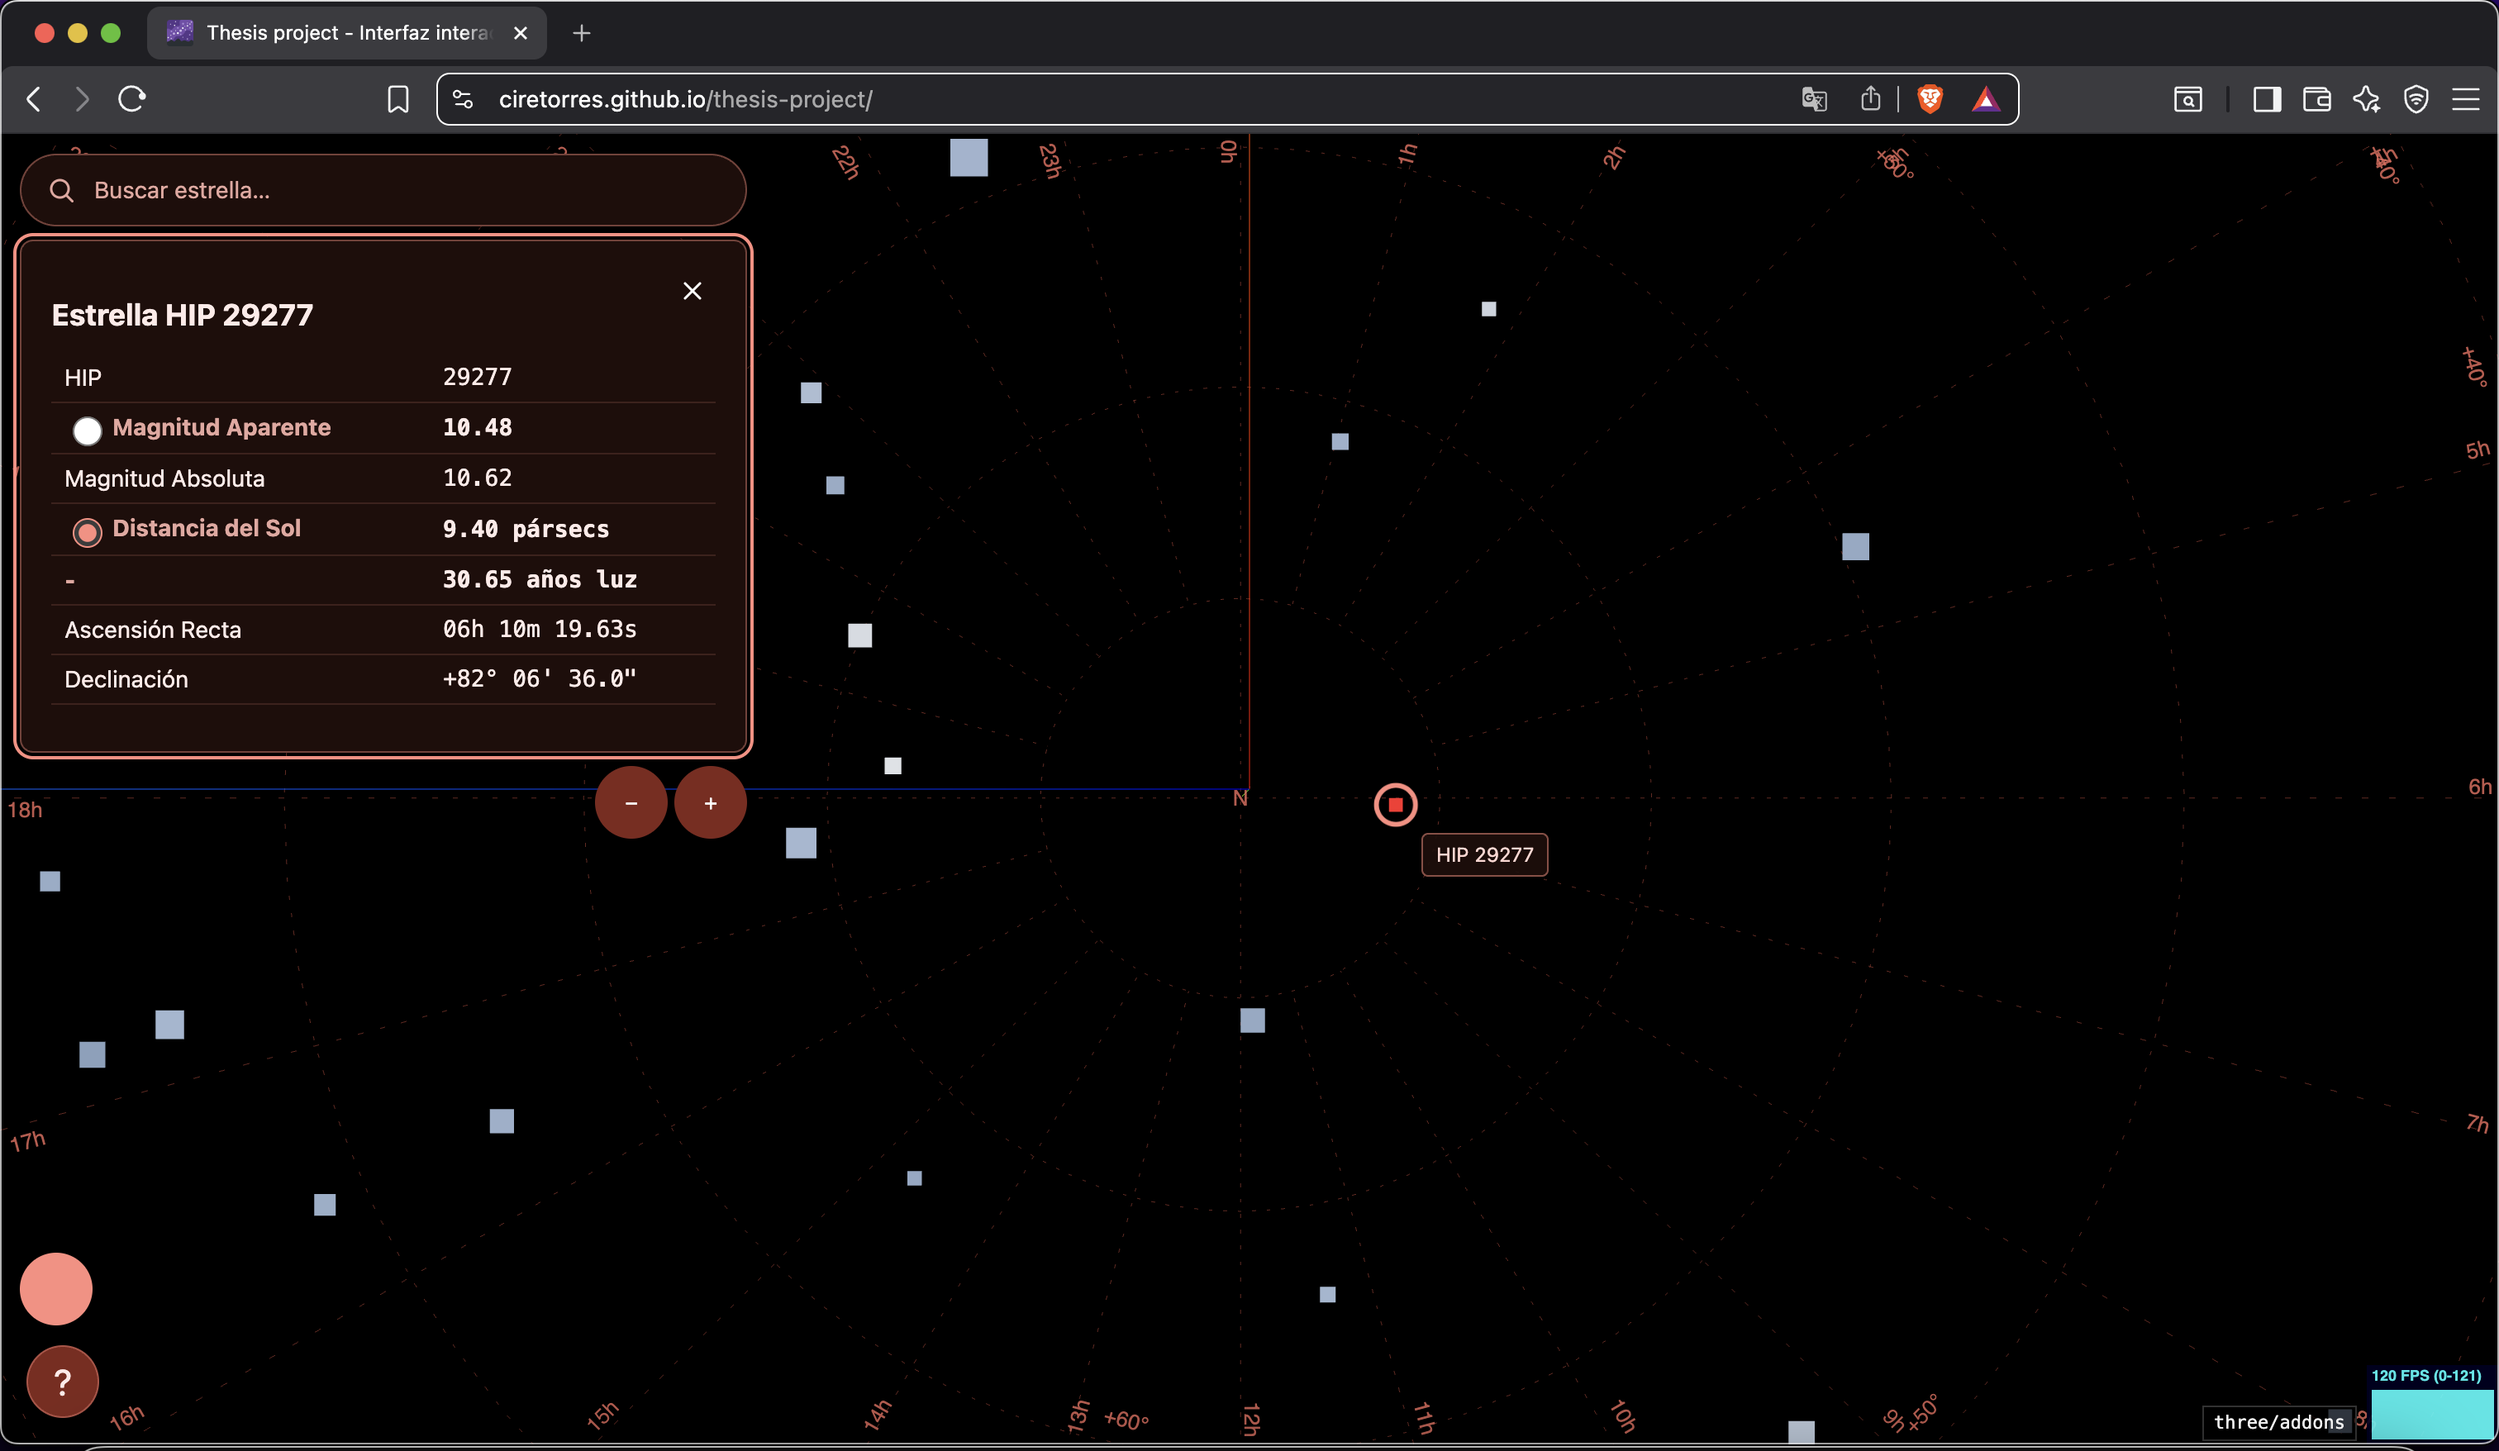
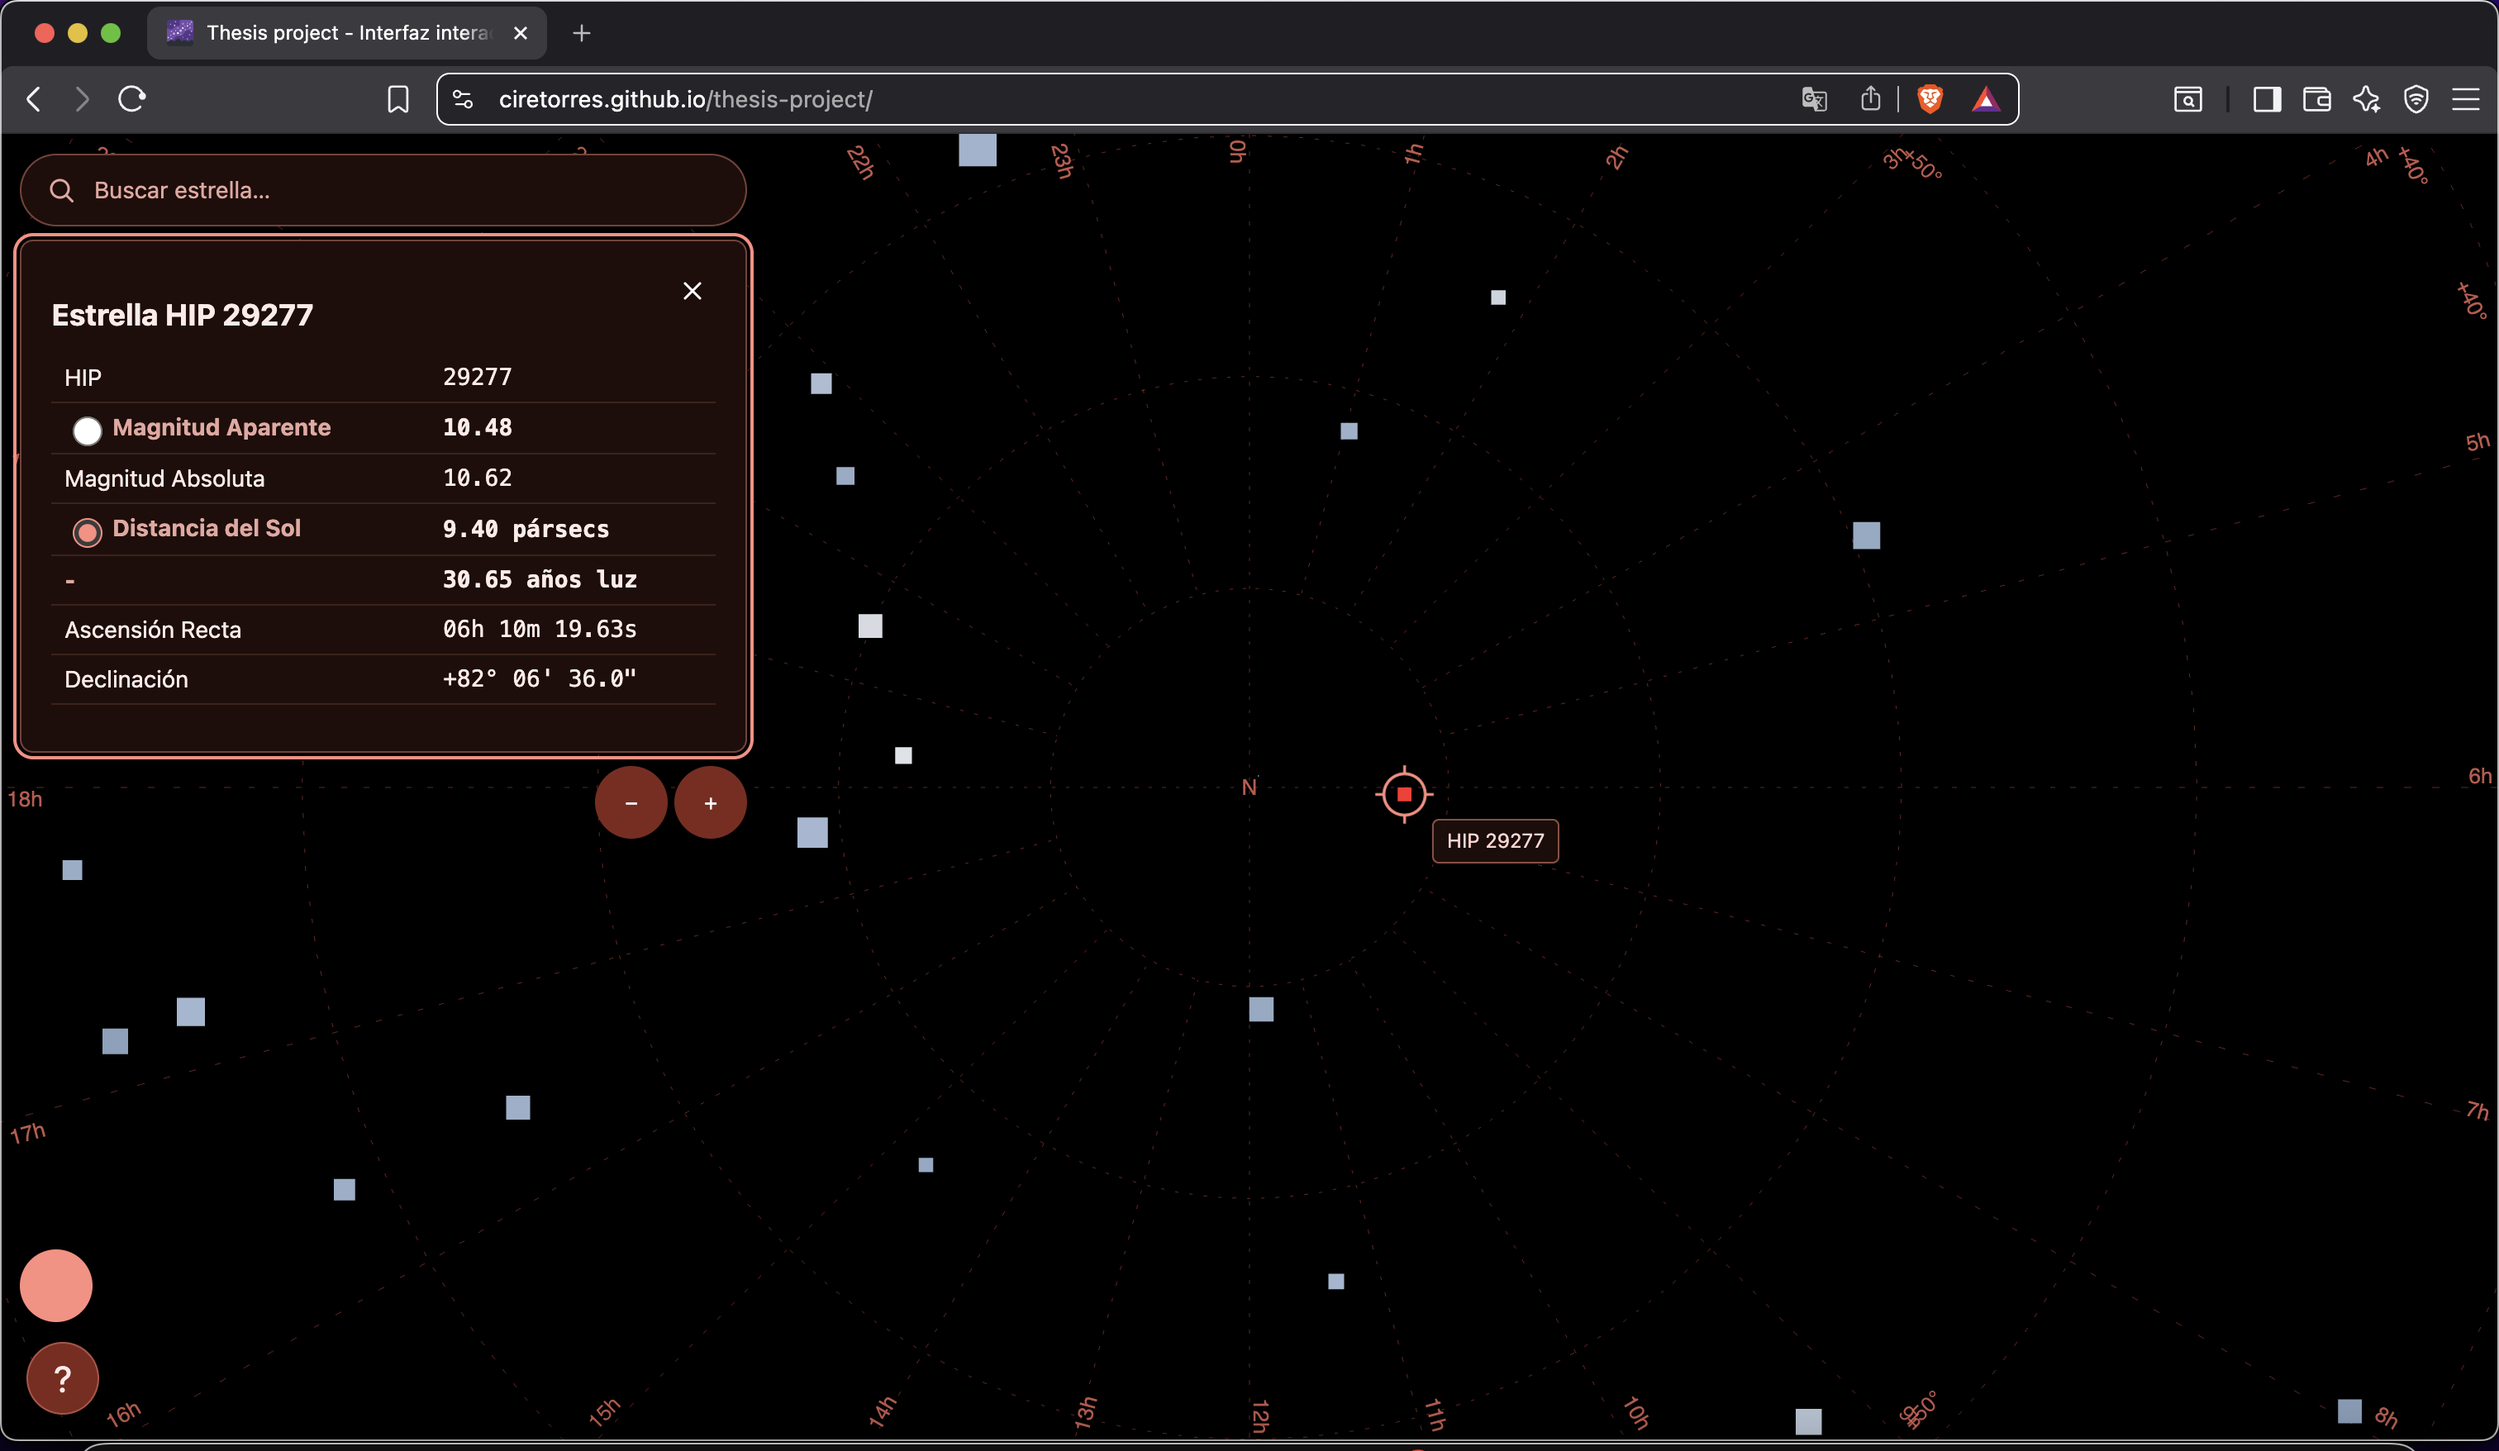
fix: capturas en readme y public

diff --git a/README.md b/README.md
@@ -11,7 +11,7 @@ JavaScript plano + [three.js](https://threejs.org/) + [Vite](https://vite.dev/),
 aquí
 </a>.
 
-<img src="./docs/capturas/Screen Shot 2026-11-02 at 16.12.04.webp" width="800">
+<img src="./docs/capturas/Screen Shot 2026-11-09 at 12.26.22.webp" width="800">
 
 ## Contacto
 
